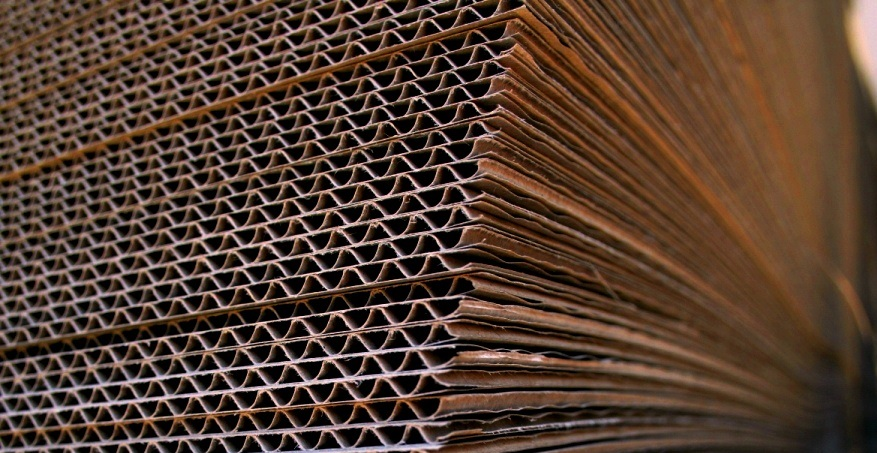
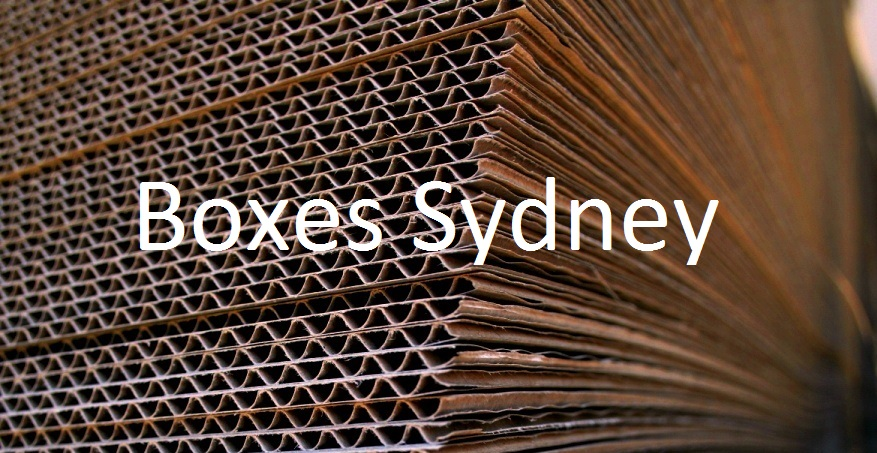
Unit 4 Project Birds
Page paying homage to birds in my yard, ditched the boring Boxes page
for something more inspiring

Changed region(s): [[0.4618, 0.3709, 0.8312, 0.5872], [0.1539, 0.4018, 0.431, 0.5563]]

diff --git a/Unit3/index.html b/Unit3/index.html
@@ -3,8 +3,9 @@
 <html>
 
 	<head>
-		<title>Boxes Sydney</title>
+		<title>Boxes Sydney, Australia</title>
 		<link rel="stylesheet" type="text/css" href="css/main.css">
+		<link href='http://fonts.googleapis.com/css?family=Lora:400,700' rel='stylesheet' type='text/css'>
 	</head>
 	<body>
 		<div class="hero-image">
@@ -12,14 +13,15 @@
 		</div>
 
 	 	<h1>Boxes Sydney</h1>
-		<p id="slogan">Boxes for You</p>
+		<p id="slogan">Don't have a slogan yet!</p>
 
 		<p>As the name says, we supply boxes to the Sydney area, existing and or bespoke cardboard boxes.</p>
 
 		<ul>
-			<li>Pre-Made Boxes</li>
-			<li>Made to Order Boxes</li>
+			<li>Pre-Made cardboard Boxes</li>
+			<li>Made to Order corrugated cardboard Boxes</li>
 			<li>EasyBOX style innovative boxes</li>
+			<li>But wait, there's more... email to find out 
 		</ul>
 
 		<p>

diff --git a/Unit 4 Project Birds/index.html b/Unit 4 Project Birds/index.html
@@ -1,0 +1,35 @@
+<!DOCTYPE html>
+
+<html>
+
+	<head>
+		<title>Leichhardt Birds</title>
+		<link rel="stylesheet" type="text/css" href="css/main.css">
+		<link href='http://fonts.googleapis.com/css?family=Lora:400,700' rel='stylesheet' type='text/css'>
+	</head>
+	<body>
+		<div class="hero-image">
+			<img src="images/2 kookascopyright 1.jpg">
+		</div>
+
+	 	<h1>Birds of Leichhardt</h1>
+		<p id="slogan">Dedicated to Avian Life of Leichhardt, Sydney</p>
+
+		<p>Paying homage to the beautiful feathered friends that visit our inner city back yards in the Leichhardt precinct area</p>
+
+		<ul>
+			<li>Kookaburras</li>
+			<li>Fairy Wrens</li>
+			<li>Bulbuls</li>
+			<li>Noisy Miners</li>
+			<li>New Holland Honeyeaters</li>
+			<li>Goshawks</li>
+			<li>Magpies</li>
+
+		</ul>
+
+	
+
+	</body>
+
+</html>
